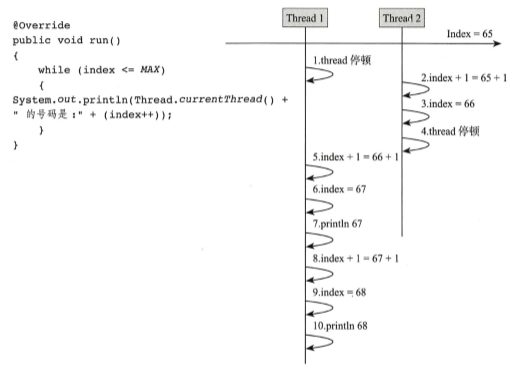
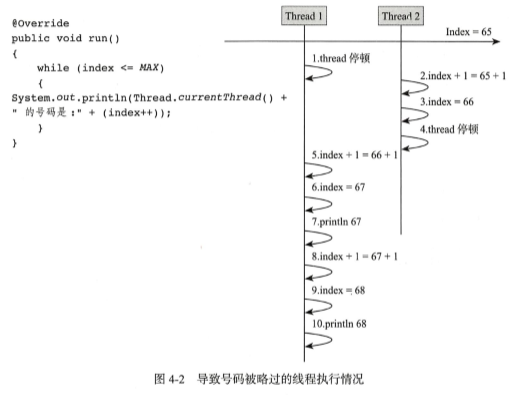
多线程问题

Changed region(s): [[0.0, 0.0, 0.9961, 0.9891], [0.0, 0.03, 0.249, 0.1499]]

diff --git a/note/java/java高并发编程详解/content/4线程安全与数据同步.md b/note/java/java高并发编程详解/content/4线程安全与数据同步.md
@@ -42,3 +42,7 @@ public class TicketWindowRunnable implements Runnable{
 
 ![](F:\__study__\hulianwang\study\note\java\java高并发编程详解\img\04_01thread.png)
 
+![](F:\__study__\hulianwang\study\note\java\java高并发编程详解\img\04_02thread.png)
+
+##### 初始synchroinzed关键字
+
